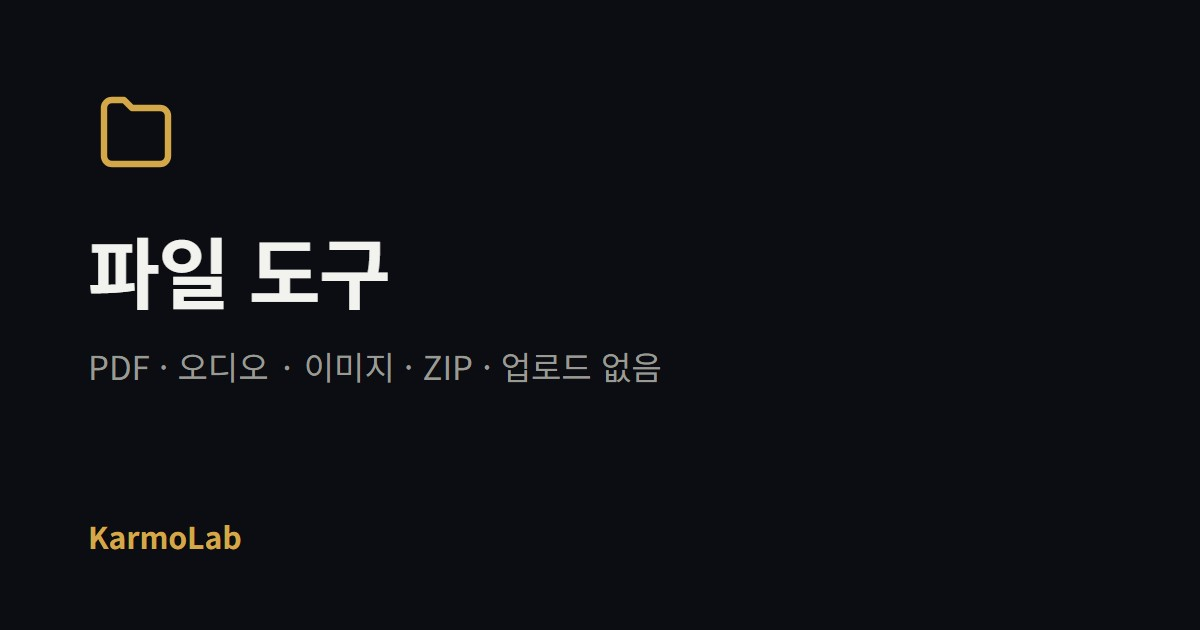
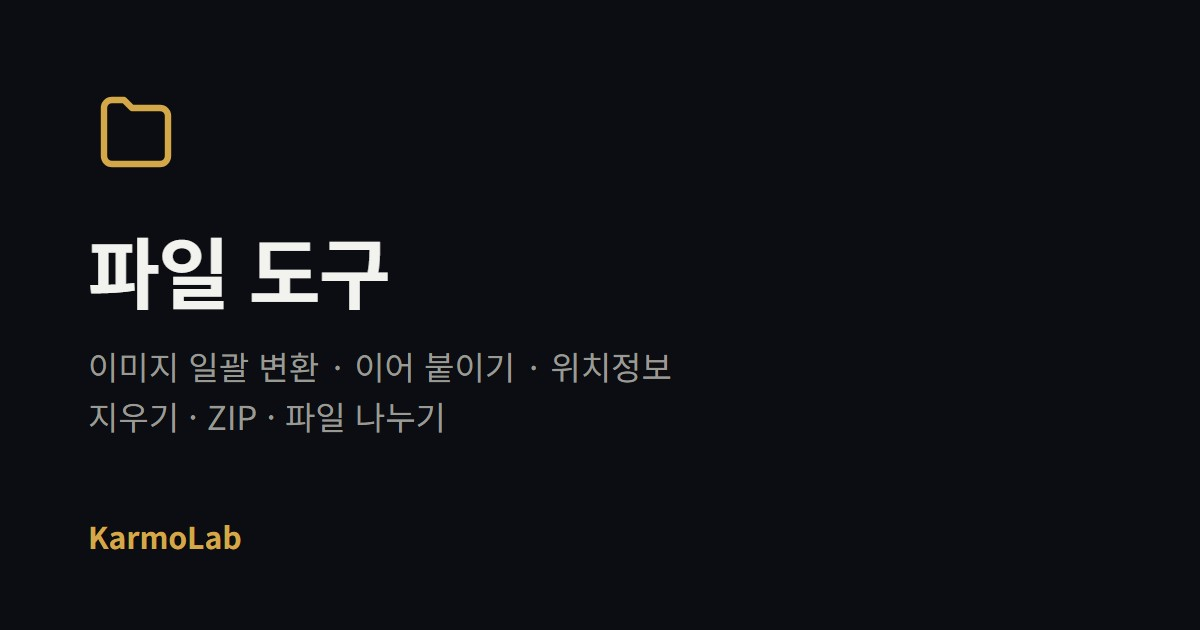
refactor(karmolab): 파일 도구 18탭을 PDF·소리·파일 셋으로 나눴다 (KL-088)
한 묶음에 열여덟 개가 들어가 PDF·소리·이미지가 뒤섞였다. 아는 기능도 못 찾는 상태였다.
123apps 처럼 갈래로 나눈다 — 사이드바 항목은 둘 늘지만 각 묶음이 한눈에 든다.

- PDF 도구(8): 합치기·나누기 · 용량 줄이기 · 서명 · 워터마크 · PDF↔글자 · PDF↔이미지
- 소리 도구(4): 녹음 · 자르기 · 크기 맞추기 · 잇기 (이어서 하는 일들이다)
- 파일 도구(6): 이미지 일괄·이어 붙이기 · 위치정보 지우기 · ZIP · 파일 나누기 · 검사값

각 도구의 주소(/karmolab/t/<id>/)는 그대로다 — 부르면 새 묶음의 그 탭이 열린다.

Changed region(s): [[0.0617, 0.5429, 0.555, 0.6032], [0.0617, 0.6333, 0.2158, 0.6937], [0.2467, 0.6333, 0.37, 0.6937]]

diff --git a/apps/karmolab/src/widgets-lazy-meta.ts b/apps/karmolab/src/widgets-lazy-meta.ts
@@ -328,8 +328,8 @@ window.KARMOLAB_LAZY_META = [
   },
   {
     id: 'pdf2img',
-    hidden: true, // 「filetool」 위젯의 탭으로 합쳐짐 — 검색 유입 주소는 유지
-    bundle: 'filetool', // 이 도구를 부르면 묶음의 이 탭으로 간다
+    hidden: true, // 「PDF 도구」 위젯의 탭으로 합쳐짐 — 검색 유입 주소는 유지
+    bundle: 'pdf', // 이 도구를 부르면 묶음의 이 탭으로 간다
     title: 'PDF → 이미지',
     category: 'tool',
     desc: 'PDF 페이지를 PNG·JPG 로 바꿉니다. 배율을 올리면 인쇄용 해상도까지',
@@ -339,8 +339,8 @@ window.KARMOLAB_LAZY_META = [
   },
   {
     id: 'img2pdf',
-    hidden: true, // 「filetool」 위젯의 탭으로 합쳐짐 — 검색 유입 주소는 유지
-    bundle: 'filetool', // 이 도구를 부르면 묶음의 이 탭으로 간다
+    hidden: true, // 「PDF 도구」 위젯의 탭으로 합쳐짐 — 검색 유입 주소는 유지
+    bundle: 'pdf', // 이 도구를 부르면 묶음의 이 탭으로 간다
     title: '이미지 → PDF',
     category: 'tool',
     desc: '사진 여러 장을 한 PDF 로 묶습니다. 비율을 지킨 채 종이에 맞춥니다',
@@ -361,8 +361,8 @@ window.KARMOLAB_LAZY_META = [
   },
   {
     id: 'pdfwatermark',
-    hidden: true, // 「filetool」 위젯의 탭으로 합쳐짐 — 검색 유입 주소는 유지
-    bundle: 'filetool', // 이 도구를 부르면 묶음의 이 탭으로 간다
+    hidden: true, // 「PDF 도구」 위젯의 탭으로 합쳐짐 — 검색 유입 주소는 유지
+    bundle: 'pdf', // 이 도구를 부르면 묶음의 이 탭으로 간다
     title: 'PDF 워터마크',
     category: 'tool',
     desc: 'PDF 전 페이지에 문구를 얹습니다. 한글도 됩니다',
@@ -372,8 +372,8 @@ window.KARMOLAB_LAZY_META = [
   },
   {
     id: 'audiojoin',
-    hidden: true, // 「filetool」 위젯의 탭으로 합쳐짐 — 검색 유입 주소는 유지
-    bundle: 'filetool', // 이 도구를 부르면 묶음의 이 탭으로 간다
+    hidden: true, // 「소리 도구」 위젯의 탭으로 합쳐짐 — 검색 유입 주소는 유지
+    bundle: 'sound', // 이 도구를 부르면 묶음의 이 탭으로 간다
     title: '오디오 이어붙이기',
     category: 'tool',
     desc: '여러 음원을 하나로 잇습니다. 표본율이 달라도 맞춰서 이어 줍니다',
@@ -405,8 +405,8 @@ window.KARMOLAB_LAZY_META = [
   },
   {
     id: 'pdftool',
-    hidden: true, // 「filetool」 위젯의 탭으로 합쳐짐 — 검색 유입 주소는 유지
-    bundle: 'filetool', // 이 도구를 부르면 묶음의 이 탭으로 간다
+    hidden: true, // 「PDF 도구」 위젯의 탭으로 합쳐짐 — 검색 유입 주소는 유지
+    bundle: 'pdf', // 이 도구를 부르면 묶음의 이 탭으로 간다
     title: 'PDF 편집',
     category: 'tool',
     desc: 'PDF 를 합치고 페이지를 빼내고 돌립니다. 파일이 브라우저를 벗어나지 않습니다',
@@ -416,8 +416,8 @@ window.KARMOLAB_LAZY_META = [
   },
   {
     id: 'audiocut',
-    hidden: true, // 「filetool」 위젯의 탭으로 합쳐짐 — 검색 유입 주소는 유지
-    bundle: 'filetool', // 이 도구를 부르면 묶음의 이 탭으로 간다
+    hidden: true, // 「소리 도구」 위젯의 탭으로 합쳐짐 — 검색 유입 주소는 유지
+    bundle: 'sound', // 이 도구를 부르면 묶음의 이 탭으로 간다
     title: '오디오 자르기',
     category: 'tool',
     desc: '음원의 원하는 구간만 잘라 냅니다. 파일이 브라우저를 벗어나지 않습니다',
@@ -439,7 +439,7 @@ window.KARMOLAB_LAZY_META = [
   {
     id: 'text2pdf',
     hidden: true, // 「파일 도구」 위젯의 탭으로 합쳐짐 — 검색 유입 주소는 유지
-    bundle: 'filetool', // 이 도구를 부르면 묶음의 이 탭으로 간다
+    bundle: 'pdf', // 이 도구를 부르면 묶음의 이 탭으로 간다
     title: '글을 PDF 로',
     category: 'tool',
     desc: '적은 글을 A4 PDF 로 만듭니다. 한글도 깨지지 않고, 글이 브라우저를 벗어나지 않습니다',
@@ -450,7 +450,7 @@ window.KARMOLAB_LAZY_META = [
   {
     id: 'pdfsign',
     hidden: true, // 「파일 도구」 위젯의 탭으로 합쳐짐 — 검색 유입 주소는 유지
-    bundle: 'filetool', // 이 도구를 부르면 묶음의 이 탭으로 간다
+    bundle: 'pdf', // 이 도구를 부르면 묶음의 이 탭으로 간다
     title: 'PDF 에 서명 넣기',
     category: 'tool',
     desc: '계약서에 손으로 그린 서명을 얹습니다. 인쇄·스캔 없이, 문서가 브라우저를 벗어나지 않습니다',
@@ -483,7 +483,7 @@ window.KARMOLAB_LAZY_META = [
   {
     id: 'pdf2text',
     hidden: true, // 「파일 도구」 위젯의 탭으로 합쳐짐 — 검색 유입 주소는 유지
-    bundle: 'filetool', // 이 도구를 부르면 묶음의 이 탭으로 간다
+    bundle: 'pdf', // 이 도구를 부르면 묶음의 이 탭으로 간다
     title: 'PDF 에서 글자 뽑기',
     category: 'tool',
     desc: 'PDF 의 글자를 줄·문단을 살려 뽑아냅니다. 파일이 브라우저를 벗어나지 않습니다',
@@ -494,7 +494,7 @@ window.KARMOLAB_LAZY_META = [
   {
     id: 'audiolevel',
     hidden: true, // 「파일 도구」 위젯의 탭으로 합쳐짐 — 검색 유입 주소는 유지
-    bundle: 'filetool', // 이 도구를 부르면 묶음의 이 탭으로 간다
+    bundle: 'sound', // 이 도구를 부르면 묶음의 이 탭으로 간다
     title: '소리 크기 맞추기',
     category: 'tool',
     desc: '들쭉날쭉한 녹음의 크기를 고르게 만듭니다. 전후를 파형과 숫자로 비교하고, 파일이 브라우저를 벗어나지 않습니다',
@@ -505,7 +505,7 @@ window.KARMOLAB_LAZY_META = [
   {
     id: 'pdfcompress',
     hidden: true, // 「파일 도구」 위젯의 탭으로 합쳐짐 — 검색 유입 주소는 유지
-    bundle: 'filetool', // 이 도구를 부르면 묶음의 이 탭으로 간다
+    bundle: 'pdf', // 이 도구를 부르면 묶음의 이 탭으로 간다
     title: 'PDF 용량 줄이기',
     category: 'tool',
     desc: '스캔 PDF 의 용량을 줄입니다. 화질을 미리 보고 고를 수 있고, 파일이 브라우저를 벗어나지 않습니다',
@@ -514,13 +514,33 @@ window.KARMOLAB_LAZY_META = [
     lazyScriptPaths: ['tools/pdfcompress']
   },
   {
+    id: 'pdf',
+    title: 'PDF 도구',
+    category: 'tool',
+    desc: 'PDF 를 합치고 나누고 줄이고, 서명·워터마크를 넣습니다. 문서가 브라우저를 벗어나지 않습니다',
+    layout: 'wide',
+    lazyTabs: true, // 처리기가 무겁다 — 연 탭만 만든다
+    icon: '<path d="M14 3H7a2 2 0 0 0-2 2v14a2 2 0 0 0 2 2h10a2 2 0 0 0 2-2V8z" stroke="currentColor" stroke-width="1.6" fill="none" stroke-linejoin="round"/><path d="M14 3v5h5" stroke="currentColor" stroke-width="1.6" fill="none"/><path d="M8.5 13h7M8.5 16.5h4" stroke="currentColor" stroke-width="1.4" stroke-linecap="round"/>',
+    lazyScriptPaths: ['tools/pdftool', 'tools/pdfcompress', 'tools/pdfsign', 'tools/pdfwatermark', 'tools/pdf2text', 'tools/text2pdf', 'tools/pdf2img', 'tools/img2pdf', 'tools/pdf']
+  },
+  {
+    id: 'sound',
+    title: '소리 도구',
+    category: 'tool',
+    desc: '녹음하고 자르고 크기를 맞추고 잇습니다. MP3·WAV 로 저장하며 파일이 브라우저를 벗어나지 않습니다',
+    layout: 'wide',
+    lazyTabs: true,
+    icon: '<path d="M4 12h2l2-5 3 12 3-16 3 14 2-5h3" stroke="currentColor" stroke-width="1.6" fill="none" stroke-linecap="round" stroke-linejoin="round"/>',
+    lazyScriptPaths: ['tools/voicerec', 'tools/audiocut', 'tools/audiolevel', 'tools/audiojoin', 'tools/sound']
+  },
+  {
     id: 'filetool',
     title: '파일 도구',
     category: 'tool',
-    desc: 'PDF·소리·이미지 파일을 다룹니다. 파일이 브라우저를 벗어나지 않습니다',
+    desc: '사진 변환·이어 붙이기, 위치정보 지우기, ZIP, 큰 파일 나누기. 파일이 브라우저를 벗어나지 않습니다',
     layout: 'wide',
     icon: '<path d="M4 6a2 2 0 0 1 2-2h3l2 2h7a2 2 0 0 1 2 2v10a2 2 0 0 1-2 2H6a2 2 0 0 1-2-2z" stroke="currentColor" stroke-width="1.6" fill="none" stroke-linejoin="round"/>',
-    lazyScriptPaths: ['tools/pdftool', 'tools/audiocut', 'tools/pdf2img', 'tools/img2pdf', 'tools/ziptool', 'tools/pdfwatermark', 'tools/audiojoin', 'tools/imgbatch', 'tools/filehash', 'tools/voicerec', 'tools/pdfcompress', 'tools/pdf2text', 'tools/audiolevel', 'tools/exifclean', 'tools/filesplit', 'tools/pdfsign', 'tools/text2pdf', 'tools/imgmerge', 'tools/filetool']
+    lazyScriptPaths: ['tools/imgbatch', 'tools/imgmerge', 'tools/exifclean', 'tools/ziptool', 'tools/filesplit', 'tools/filehash', 'tools/filetool']
   },
   {
     id: 'video2gif',
@@ -591,7 +611,7 @@ window.KARMOLAB_LAZY_META = [
   {
     id: 'voicerec',
     hidden: true, // 「파일 도구」 위젯의 탭으로 합쳐짐 — 검색 유입 주소는 유지
-    bundle: 'filetool', // 이 도구를 부르면 묶음의 이 탭으로 간다
+    bundle: 'sound', // 이 도구를 부르면 묶음의 이 탭으로 간다
     title: '목소리 녹음',
     category: 'tool',
     desc: '마이크로 바로 녹음해 WAV 로 받습니다. 소리가 들어오는지 눈으로 보이고, 파일이 브라우저를 벗어나지 않습니다',

diff --git a/apps/karmolab/src/widgets/tools/pdf.ts b/apps/karmolab/src/widgets/tools/pdf.ts
@@ -1,0 +1,37 @@
+/**
+ * PDF 도구 (TASK-KL-088) — PDF 로 하는 일을 한자리에.
+ *
+ * 원래 「파일 도구」 하나에 열여덟 개가 들어 있었다. PDF·소리·이미지가 뒤섞여, 아는 기능도
+ * 찾기 어려웠다. 123apps 처럼 갈래별로 나눈다 — 사이드바 항목은 둘 늘지만 각 묶음이 한눈에 든다.
+ *
+ * 계약서·이력서가 오가는 자리라 「올리지 않는다」가 특히 중요하다. 처리기는 연 탭만 받는다.
+ */
+(function (): void {
+  const PARTS: Array<[string, string]> = [
+    ['pdftool', '합치기·나누기'],
+    ['pdfcompress', '용량 줄이기'],
+    ['pdfsign', '서명 넣기'],
+    ['pdfwatermark', '워터마크'],
+    ['pdf2text', 'PDF → 글자'],
+    ['text2pdf', '글 → PDF'],
+    ['pdf2img', 'PDF → 이미지'],
+    ['img2pdf', '이미지 → PDF']
+  ];
+
+  Toolbox.register({
+    id: 'pdf',
+    title: 'PDF 도구',
+    category: 'tool',
+    desc: 'PDF 를 합치고 나누고 줄이고, 서명·워터마크를 넣습니다. 문서가 브라우저를 벗어나지 않습니다',
+    layout: 'wide',
+    lazyTabs: true,
+    icon: '<path d="M14 3H7a2 2 0 0 0-2 2v14a2 2 0 0 0 2 2h10a2 2 0 0 0 2-2V8z" stroke="currentColor" stroke-width="1.6" fill="none" stroke-linejoin="round"/><path d="M14 3v5h5" stroke="currentColor" stroke-width="1.6" fill="none"/><path d="M8.5 13h7M8.5 16.5h4" stroke="currentColor" stroke-width="1.4" stroke-linecap="round"/>',
+    tabs: PARTS.map(([id, label]) => ({
+      id,
+      label,
+      build: function (container: HTMLElement): void {
+        Toolbox.mountTool(id, container);
+      }
+    }))
+  });
+})();

diff --git a/apps/karmolab/src/widgets/tools/filetool.ts b/apps/karmolab/src/widgets/tools/filetool.ts
@@ -11,18 +11,6 @@
    * (「PDF」 처럼 대상만 적으면 무슨 일을 하는 자리인지 알 수 없다).
    */
   const PARTS: Array<[string, string]> = [
-    ['pdftool', 'PDF 합치기·나누기'],
-    ['pdfcompress', 'PDF 용량 줄이기'],
-    ['pdfsign', 'PDF 서명'],
-    ['pdfwatermark', 'PDF 워터마크'],
-    ['pdf2text', 'PDF → 글자'],
-    ['text2pdf', '글 → PDF'],
-    ['pdf2img', 'PDF → 이미지'],
-    ['img2pdf', '이미지 → PDF'],
-    ['audiocut', '소리 자르기'],
-    ['audiojoin', '소리 잇기'],
-    ['audiolevel', '소리 크기 맞추기'],
-    ['voicerec', '목소리 녹음'],
     ['imgbatch', '이미지 일괄 변환'],
     ['imgmerge', '사진 이어 붙이기'],
     ['exifclean', '사진 정보 지우기'],
@@ -35,7 +23,7 @@
     id: 'filetool',
     title: '파일 도구',
     category: 'tool',
-    desc: 'PDF·소리·이미지 파일을 다룹니다. 파일이 브라우저를 벗어나지 않습니다',
+    desc: '사진 변환·이어 붙이기, 위치정보 지우기, ZIP, 큰 파일 나누기. 파일이 브라우저를 벗어나지 않습니다',
     layout: 'wide',
     lazyTabs: true, // 처리기가 무겁다 — 연 탭만 만든다
     icon: '<path d="M4 6a2 2 0 0 1 2-2h3l2 2h7a2 2 0 0 1 2 2v10a2 2 0 0 1-2 2H6a2 2 0 0 1-2-2z" stroke="currentColor" stroke-width="1.6" fill="none" stroke-linejoin="round"/>',

diff --git a/apps/karmolab/src/widgets/tools/sound.ts b/apps/karmolab/src/widgets/tools/sound.ts
@@ -1,0 +1,31 @@
+/**
+ * 소리 도구 (TASK-KL-088) — 녹음하고 다듬는 일을 한자리에.
+ *
+ * 녹음 → 자르기 → 크기 맞추기 → 잇기 는 대개 이어서 하는 일이다. 흩어져 있으면
+ * 그때마다 다른 자리를 찾아야 한다. 저장은 MP3 와 WAV 중 고를 수 있다.
+ */
+(function (): void {
+  const PARTS: Array<[string, string]> = [
+    ['voicerec', '녹음'],
+    ['audiocut', '자르기'],
+    ['audiolevel', '크기 맞추기'],
+    ['audiojoin', '잇기']
+  ];
+
+  Toolbox.register({
+    id: 'sound',
+    title: '소리 도구',
+    category: 'tool',
+    desc: '녹음하고 자르고 크기를 맞추고 잇습니다. MP3·WAV 로 저장하며 파일이 브라우저를 벗어나지 않습니다',
+    layout: 'wide',
+    lazyTabs: true,
+    icon: '<path d="M4 12h2l2-5 3 12 3-16 3 14 2-5h3" stroke="currentColor" stroke-width="1.6" fill="none" stroke-linecap="round" stroke-linejoin="round"/>',
+    tabs: PARTS.map(([id, label]) => ({
+      id,
+      label,
+      build: function (container: HTMLElement): void {
+        Toolbox.mountTool(id, container);
+      }
+    }))
+  });
+})();
